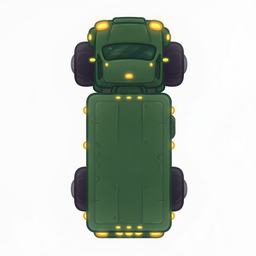
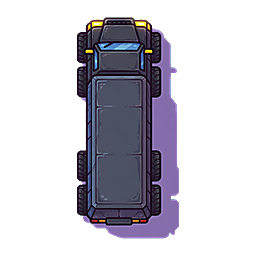
ART-3: ens bil-sprites og skarpere byer
Samme top-down stil på alle køretøjer; skarpere sted-varianter.
Backup i assets/*/\_backup_art3.

diff --git a/js/vehicle.js b/js/vehicle.js
@@ -508,7 +508,8 @@ export class Vehicle {
 
     const sprite = getVehicleSprite(this.classId, this.kind);
     if (sprite && sprite.complete && sprite.naturalWidth > 0) {
-      const sc = (isBus ? 3.05 : isHeavy ? 2.85 : isVan ? 2.65 : isFast ? 2.4 : 2.55) * s;
+      // Ens scale-familie (top-down packs) – længere køretøjer lidt større
+      const sc = (isBus ? 2.95 : isHeavy ? 2.8 : isVan ? 2.55 : isFast ? 2.35 : 2.5) * s;
       ctx.drawImage(sprite, -sc / 2, -sc / 2, sc, sc);
     } else if (this.kind === 'truck') {
       this.drawTruck(ctx, s, dpr, isHeavy);

diff --git a/sw.js b/sw.js
@@ -1,5 +1,5 @@
 /* Flowtown service worker – offline cache for core shell */
-const CACHE = 'flowtown-v4-art2';
+const CACHE = 'flowtown-v5-art3';
 const PRECACHE = [
   './',
   './index.html',

diff --git a/IMPROVEMENTS.md b/IMPROVEMENTS.md
@@ -157,6 +157,10 @@ Batch-plan: **1** flaskehals + mere-menu · **2** baner/flow/bygninger · **3** 
 - [x] Bro: gelænder-stolper + bedre piller
 - [x] Tool-UI ikoner (draw/erase/upgrade/bridge/…)
 
+### ART-3 (04/08)
+- [x] Ens top-down bil-sprites (car, fast, truck, heavy, bus, van)
+- [x] Skarpere by-varianter (places + sharpen)
+
 ---
 
 ## Mangler / næste (anbefalet rækkefølge)
